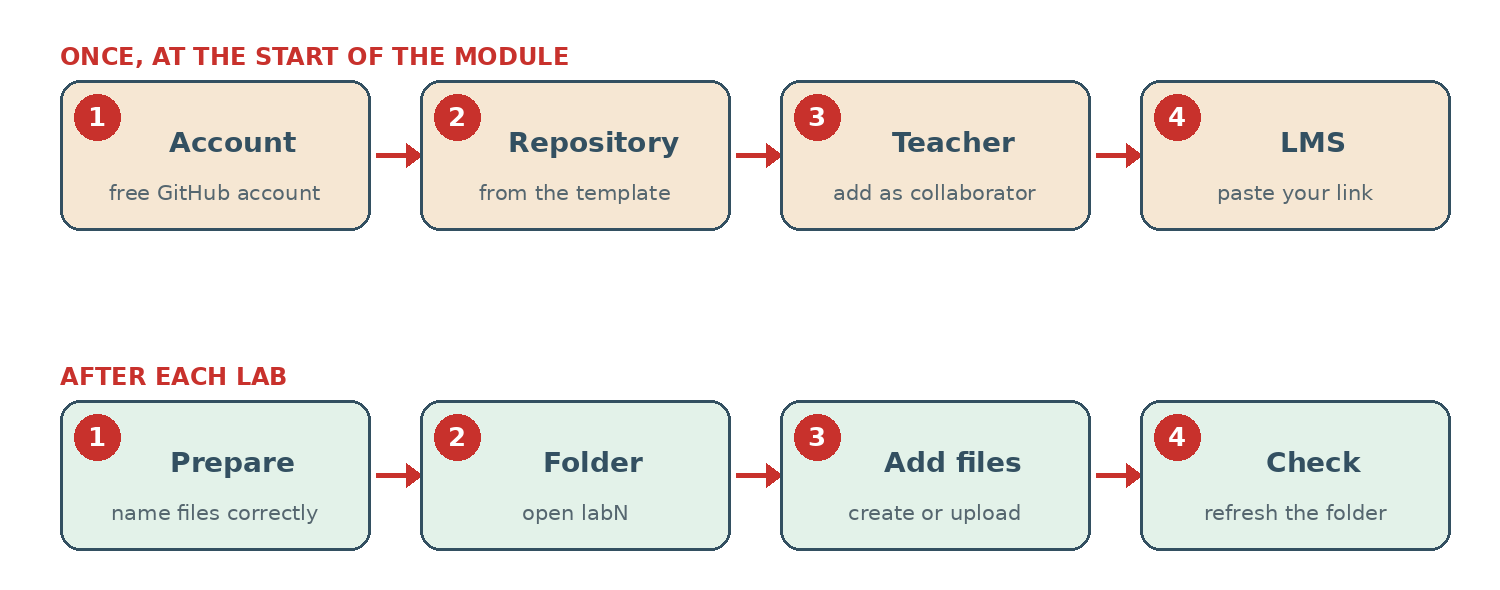
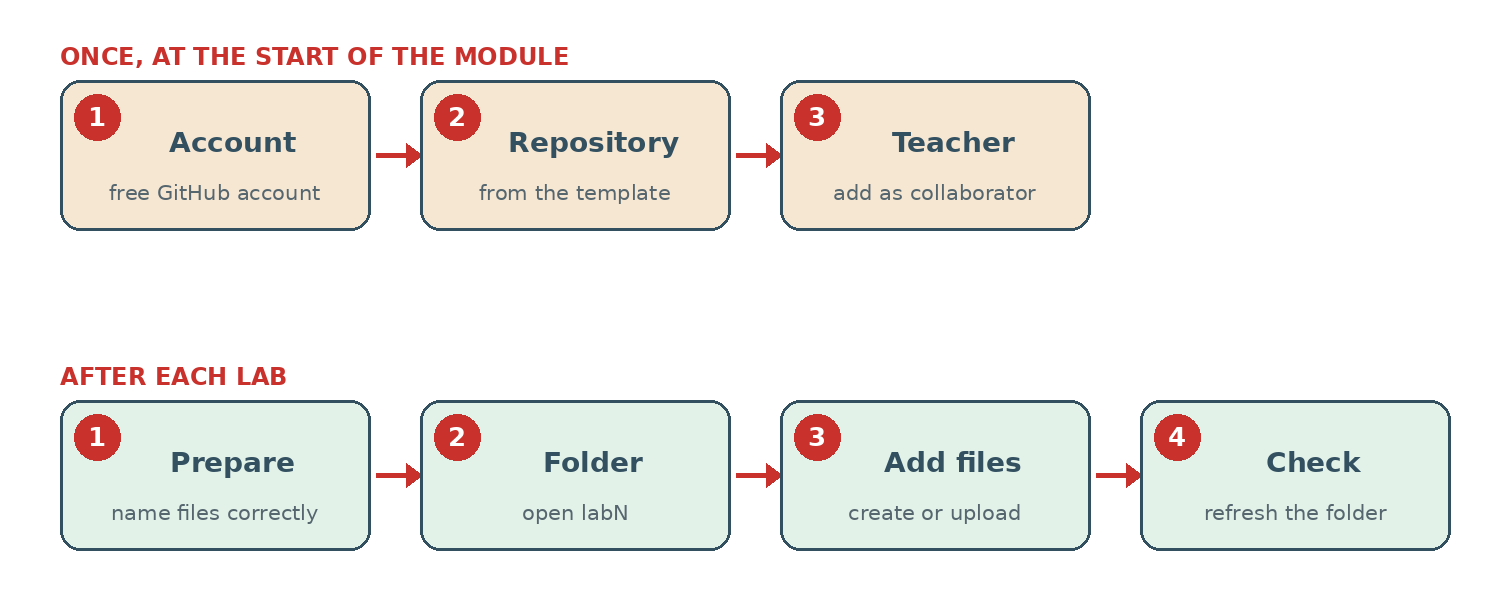
Hand-in guide: students write their name in the repository description, no LMS step
Claude-Session: https://claude.ai/code/session_01QmXQCWgMqLWgpCo8kcuSW4

Changed region(s): [[0.736, 0.122, 0.9813, 0.3966]]

diff --git a/handin.html b/handin.html
@@ -4,7 +4,7 @@
 <meta charset="utf-8">
 <meta name="viewport" content="width=device-width, initial-scale=1">
 <title>How to Hand In Your Work · Jenkins Labs</title>
-<link rel="stylesheet" href="assets/style.css?v=12">
+<link rel="stylesheet" href="assets/style.css?v=13">
 </head>
 <body>
 <header class="top">
@@ -16,9 +16,9 @@
   <main>
     <div class="crumb">Module home</div>
     <h1>How to Hand In Your Work</h1>
-    <div class="prose"><p>You hand in your lab work in <b>one personal GitHub repository</b> for the whole module, with <b>one folder per lab</b> (<code>lab2</code>, <code>lab3</code>, …). Everything happens in your web browser: you do not need to install Git.</p><p>Part A is done <b>once</b>, at the start of the module (about 10 minutes). Part B is done <b>after each lab</b> (about 3 minutes).</p></div>
+    <div class="prose"><p>You hand in your lab work in <b>one personal GitHub repository</b> for the whole module, with <b>one folder per lab</b> (<code>lab2</code>, <code>lab3</code>, …). Everything happens in your web browser: you do not need to install Git.</p><p>Part A is done <b>once</b>, at the start of the module (about 5 minutes). Part B is done <b>after each lab</b> (about 3 minutes).</p></div>
 <figure><a href="images/handin-path.png" target="_blank" rel="noopener"><img src="images/handin-path.png" alt="Part A once at the start of the module, part B after each lab" loading="lazy"></a><figcaption>Part A once at the start of the module, part B after each lab</figcaption></figure>
-<div class="prose"><h3>Part A, step 1: Create a GitHub account</h3><p>Already have a GitHub account? Go to step 2.</p><ol><li>Go to <a href="https://github.com/signup" target="_blank" rel="noopener">github.com/signup</a>.</li><li>Enter your email, a password and a <b>username</b>. Choose a username your teacher can recognise, for example <code>firstname-lastname</code>.</li><li>Confirm your email with the code GitHub sends you.</li></ol><h3>Part A, step 2: Create your repository from the template</h3><ol><li>Sign in to GitHub, then open <a href="https://github.com/new?template_name=jenkins-labs-template&amp;template_owner=nouhakhyari-sys" target="_blank" rel="noopener"><b>this link</b></a>.</li><li>Check the top of the form: it shows <b>Repository template: nouhakhyari-sys/jenkins-labs-template</b>. If it does not, refresh the page.</li><li><b>Owner:</b> your username. <b>Repository name:</b> <code>jenkins-labs</code></li><li><b>Visibility:</b> choose <b>Private</b>, so other students cannot copy your work.</li><li>Do not change the other options. Click <b>Create repository</b>.</li></ol><p>After a few seconds you see your repository with a <code>README.md</code> and the folders <code>lab2</code>, <code>lab3</code> and <code>lab4</code>.</p><h3>Part A, step 3: Give your teacher access</h3><p>Your repository is private: your teacher must be added as a collaborator to see it.</p><ol><li>In your repository, click <b>Settings</b> (top menu, gear icon).</li><li>In the left menu, click <b>Collaborators</b>. GitHub may ask for your password or a code.</li><li>Click <b>Add people</b>, type <code>nouhakhyari-sys</code>, select it, then click <b>Add … to this repository</b>.</li></ol><p>The invitation shows as <b>Pending</b> until your teacher accepts it. That is normal.</p><h3>Part A, step 4: Send your link in the LMS</h3><ol><li>Copy the address of your repository from the browser bar, for example <code>https://github.com/firstname-lastname/jenkins-labs</code>.</li><li>In the LMS, open the assignment <b>📥 My Jenkins Labs repository</b>, paste the link and submit.</li></ol></div>
+<div class="prose"><h3>Part A, step 1: Create a GitHub account</h3><p>Already have a GitHub account? Go to step 2.</p><ol><li>Go to <a href="https://github.com/signup" target="_blank" rel="noopener">github.com/signup</a>.</li><li>Enter your email, a password and a <b>username</b>. Choose a username your teacher can recognise, for example <code>firstname-lastname</code>.</li><li>Confirm your email with the code GitHub sends you.</li></ol><h3>Part A, step 2: Create your repository from the template</h3><ol><li>Sign in to GitHub, then open <a href="https://github.com/new?template_name=jenkins-labs-template&amp;template_owner=nouhakhyari-sys" target="_blank" rel="noopener"><b>this link</b></a>.</li><li>Check the top of the form: it shows <b>Repository template: nouhakhyari-sys/jenkins-labs-template</b>. If it does not, refresh the page.</li><li><b>Owner:</b> your username. <b>Repository name:</b> <code>jenkins-labs</code></li><li><b>Description:</b> your <b>full name and group</b>, for example <code>Ahmed Ben Ali – Master 2</code>. This is how your teacher knows the repository is yours.</li><li><b>Visibility:</b> choose <b>Private</b>, so other students cannot copy your work.</li><li>Do not change the other options. Click <b>Create repository</b>.</li></ol><p>After a few seconds you see your repository with a <code>README.md</code> and the folders <code>lab2</code>, <code>lab3</code> and <code>lab4</code>.</p><h3>Part A, step 3: Give your teacher access</h3><p>Your repository is private: your teacher must be added as a collaborator to see it.</p><ol><li>In your repository, click <b>Settings</b> (top menu, gear icon).</li><li>In the left menu, click <b>Collaborators</b>. GitHub may ask for your password or a code.</li><li>Click <b>Add people</b>, type <code>nouhakhyari-sys</code>, select it, then click <b>Add … to this repository</b>.</li></ol><p>The invitation shows as <b>Pending</b> until your teacher accepts it. That is normal.</p></div>
 <aside class="note"><b>Part A is done.</b> You never need to do it again. For every lab, you only do Part B in the same repository.</aside>
 <div class="prose"><h3>Part B, step 1: Prepare your files</h3><p>The last page of each lab lists the files to hand in, with their exact names. For Lab 2:</p></div>
 <div class="code"><div class="code-cap">Files to hand in for Lab 2</div><div class="code-box"><pre><code>lab2/Jenkinsfile
@@ -29,13 +29,14 @@ lab2/console.png</code></pre><button type="button" class="copy" aria-label="Copy
 <details><summary>I gave a file the wrong name</summary><div class="prose"><p>Click the file, then the <b>pencil icon</b> (Edit). Change the name in the box above the content, then <b>Commit changes</b>. For an image, the simplest is to delete it (<b>…</b> menu › <b>Delete file</b>) and upload it again with the right name.</p></div></details>
 <details><summary>My file is outside the lab folder</summary><div class="prose"><p>Open the file, click the pencil icon, and type <code>lab2/</code> at the start of its name: GitHub moves it into the folder. Click <b>Commit changes</b>.</p></div></details>
 <details><summary>The form did not show &quot;Repository template&quot;</summary><div class="prose"><p>You created an empty repository. Delete it (<b>Settings</b>, bottom of the page, <b>Delete this repository</b>) and do Part A step 2 again with the link, while signed in.</p></div></details>
+<details><summary>I forgot to write my name in the Description</summary><div class="prose"><p>On the main page of your repository, click the <b>gear icon</b> next to <b>About</b> (right column). Type your full name and group in <b>Description</b>, then click <b>Save changes</b>.</p></div></details>
 <details><summary>I made my repository Public by mistake</summary><div class="prose"><p>Open <b>Settings</b>, scroll to the bottom (<b>Danger Zone</b>), click <b>Change visibility › Make private</b> and confirm.</p></div></details>
 <details><summary>I cannot find Settings</summary><div class="prose"><p>You are in the template of your teacher, not in your own repository. Check the address: it must start with <code>github.com/your-username/</code>.</p></div></details>
     <div class="pager"><a class="prev" href="index.html">← Module home</a><a class="next" href="lab1.html">Lab 1: Installing Jenkins →</a></div>
   </main>
 </div>
 <footer>CI/CD with Jenkins · Lab guides · Commands and versions checked against the official Jenkins documentation (October 2026).</footer>
-<script src="assets/videos.js?v=12"></script>
-<script src="assets/site.js?v=12"></script>
+<script src="assets/videos.js?v=13"></script>
+<script src="assets/site.js?v=13"></script>
 </body>
 </html>

diff --git a/lab2-0-stage-view-plugin.html b/lab2-0-stage-view-plugin.html
@@ -4,7 +4,7 @@
 <meta charset="utf-8">
 <meta name="viewport" content="width=device-width, initial-scale=1">
 <title>0. Install the Stage View Plugin · Jenkins Labs</title>
-<link rel="stylesheet" href="assets/style.css?v=12">
+<link rel="stylesheet" href="assets/style.css?v=13">
 </head>
 <body>
 <header class="top">
@@ -30,7 +30,7 @@ docker restart jenkins-local</code></pre><p><code>pipeline-stage-view</code> is 
   </main>
 </div>
 <footer>CI/CD with Jenkins · Lab guides · Commands and versions checked against the official Jenkins documentation (October 2026).</footer>
-<script src="assets/videos.js?v=12"></script>
-<script src="assets/site.js?v=12"></script>
+<script src="assets/videos.js?v=13"></script>
+<script src="assets/site.js?v=13"></script>
 </body>
 </html>

diff --git a/2-5-kubernetes.html b/2-5-kubernetes.html
@@ -4,7 +4,7 @@
 <meta charset="utf-8">
 <meta name="viewport" content="width=device-width, initial-scale=1">
 <title>2.5 Kubernetes (Helm) · Jenkins Labs</title>
-<link rel="stylesheet" href="assets/style.css?v=12">
+<link rel="stylesheet" href="assets/style.css?v=13">
 </head>
 <body>
 <header class="top">
@@ -36,7 +36,7 @@ kubectl get services -n yourname</code></pre><button type="button" class="copy" 
   </main>
 </div>
 <footer>CI/CD with Jenkins · Lab guides · Commands and versions checked against the official Jenkins documentation (October 2026).</footer>
-<script src="assets/videos.js?v=12"></script>
-<script src="assets/site.js?v=12"></script>
+<script src="assets/videos.js?v=13"></script>
+<script src="assets/site.js?v=13"></script>
 </body>
 </html>

diff --git a/lab2-6-checklist-and-help.html b/lab2-6-checklist-and-help.html
@@ -4,7 +4,7 @@
 <meta charset="utf-8">
 <meta name="viewport" content="width=device-width, initial-scale=1">
 <title>6. Checklist and Help · Jenkins Labs</title>
-<link rel="stylesheet" href="assets/style.css?v=12">
+<link rel="stylesheet" href="assets/style.css?v=13">
 </head>
 <body>
 <header class="top">
@@ -32,7 +32,7 @@ bat "ver"</code></pre><p><code>uptime</code> does not exist on Windows; <code>ve
   </main>
 </div>
 <footer>CI/CD with Jenkins · Lab guides · Commands and versions checked against the official Jenkins documentation (October 2026).</footer>
-<script src="assets/videos.js?v=12"></script>
-<script src="assets/site.js?v=12"></script>
+<script src="assets/videos.js?v=13"></script>
+<script src="assets/site.js?v=13"></script>
 </body>
 </html>

diff --git a/2-2-linux-packages.html b/2-2-linux-packages.html
@@ -4,7 +4,7 @@
 <meta charset="utf-8">
 <meta name="viewport" content="width=device-width, initial-scale=1">
 <title>2.2 Linux Packages · Jenkins Labs</title>
-<link rel="stylesheet" href="assets/style.css?v=12">
+<link rel="stylesheet" href="assets/style.css?v=13">
 </head>
 <body>
 <header class="top">
@@ -46,7 +46,7 @@ sudo systemctl restart jenkins</code></pre><button type="button" class="copy" ar
   </main>
 </div>
 <footer>CI/CD with Jenkins · Lab guides · Commands and versions checked against the official Jenkins documentation (October 2026).</footer>
-<script src="assets/videos.js?v=12"></script>
-<script src="assets/site.js?v=12"></script>
+<script src="assets/videos.js?v=13"></script>
+<script src="assets/site.js?v=13"></script>
 </body>
 </html>

diff --git a/lab2-4-explore-the-buttons.html b/lab2-4-explore-the-buttons.html
@@ -4,7 +4,7 @@
 <meta charset="utf-8">
 <meta name="viewport" content="width=device-width, initial-scale=1">
 <title>4. Explore the Jenkins Buttons · Jenkins Labs</title>
-<link rel="stylesheet" href="assets/style.css?v=12">
+<link rel="stylesheet" href="assets/style.css?v=13">
 </head>
 <body>
 <header class="top">
@@ -25,7 +25,7 @@
   </main>
 </div>
 <footer>CI/CD with Jenkins · Lab guides · Commands and versions checked against the official Jenkins documentation (October 2026).</footer>
-<script src="assets/videos.js?v=12"></script>
-<script src="assets/site.js?v=12"></script>
+<script src="assets/videos.js?v=13"></script>
+<script src="assets/site.js?v=13"></script>
 </body>
 </html>

diff --git a/lab2.html b/lab2.html
@@ -4,7 +4,7 @@
 <meta charset="utf-8">
 <meta name="viewport" content="width=device-width, initial-scale=1">
 <title>Lab 2 – Your First Pipeline · Jenkins Labs</title>
-<link rel="stylesheet" href="assets/style.css?v=12">
+<link rel="stylesheet" href="assets/style.css?v=13">
 </head>
 <body>
 <header class="top">
@@ -25,7 +25,7 @@
   </main>
 </div>
 <footer>CI/CD with Jenkins · Lab guides · Commands and versions checked against the official Jenkins documentation (October 2026).</footer>
-<script src="assets/videos.js?v=12"></script>
-<script src="assets/site.js?v=12"></script>
+<script src="assets/videos.js?v=13"></script>
+<script src="assets/site.js?v=13"></script>
 </body>
 </html>

diff --git a/lab1.html b/lab1.html
@@ -4,7 +4,7 @@
 <meta charset="utf-8">
 <meta name="viewport" content="width=device-width, initial-scale=1">
 <title>Lab 1 – Installing Jenkins · Jenkins Labs</title>
-<link rel="stylesheet" href="assets/style.css?v=12">
+<link rel="stylesheet" href="assets/style.css?v=13">
 </head>
 <body>
 <header class="top">
@@ -23,7 +23,7 @@
   </main>
 </div>
 <footer>CI/CD with Jenkins · Lab guides · Commands and versions checked against the official Jenkins documentation (October 2026).</footer>
-<script src="assets/videos.js?v=12"></script>
-<script src="assets/site.js?v=12"></script>
+<script src="assets/videos.js?v=13"></script>
+<script src="assets/site.js?v=13"></script>
 </body>
 </html>

diff --git a/5-checklist-and-help.html b/5-checklist-and-help.html
@@ -4,7 +4,7 @@
 <meta charset="utf-8">
 <meta name="viewport" content="width=device-width, initial-scale=1">
 <title>5. Demo, Checklist and Help · Jenkins Labs</title>
-<link rel="stylesheet" href="assets/style.css?v=12">
+<link rel="stylesheet" href="assets/style.css?v=13">
 </head>
 <body>
 <header class="top">
@@ -29,7 +29,7 @@
   </main>
 </div>
 <footer>CI/CD with Jenkins · Lab guides · Commands and versions checked against the official Jenkins documentation (October 2026).</footer>
-<script src="assets/videos.js?v=12"></script>
-<script src="assets/site.js?v=12"></script>
+<script src="assets/videos.js?v=13"></script>
+<script src="assets/site.js?v=13"></script>
 </body>
 </html>

diff --git a/index.html b/index.html
@@ -4,7 +4,7 @@
 <meta charset="utf-8">
 <meta name="viewport" content="width=device-width, initial-scale=1">
 <title>CI/CD with Jenkins – Labs · Jenkins Labs</title>
-<link rel="stylesheet" href="assets/style.css?v=12">
+<link rel="stylesheet" href="assets/style.css?v=13">
 </head>
 <body>
 <header class="top">
@@ -21,7 +21,7 @@
   </main>
 </div>
 <footer>CI/CD with Jenkins · Lab guides · Commands and versions checked against the official Jenkins documentation (October 2026).</footer>
-<script src="assets/videos.js?v=12"></script>
-<script src="assets/site.js?v=12"></script>
+<script src="assets/videos.js?v=13"></script>
+<script src="assets/site.js?v=13"></script>
 </body>
 </html>

diff --git a/lab2-2-understanding-the-code.html b/lab2-2-understanding-the-code.html
@@ -4,7 +4,7 @@
 <meta charset="utf-8">
 <meta name="viewport" content="width=device-width, initial-scale=1">
 <title>2. Understanding the Code · Jenkins Labs</title>
-<link rel="stylesheet" href="assets/style.css?v=12">
+<link rel="stylesheet" href="assets/style.css?v=13">
 </head>
 <body>
 <header class="top">
@@ -24,7 +24,7 @@
   </main>
 </div>
 <footer>CI/CD with Jenkins · Lab guides · Commands and versions checked against the official Jenkins documentation (October 2026).</footer>
-<script src="assets/videos.js?v=12"></script>
-<script src="assets/site.js?v=12"></script>
+<script src="assets/videos.js?v=13"></script>
+<script src="assets/site.js?v=13"></script>
 </body>
 </html>

diff --git a/lab2-3-shell-commands.html b/lab2-3-shell-commands.html
@@ -4,7 +4,7 @@
 <meta charset="utf-8">
 <meta name="viewport" content="width=device-width, initial-scale=1">
 <title>3. Running Shell Commands · Jenkins Labs</title>
-<link rel="stylesheet" href="assets/style.css?v=12">
+<link rel="stylesheet" href="assets/style.css?v=13">
 </head>
 <body>
 <header class="top">
@@ -39,7 +39,7 @@
   </main>
 </div>
 <footer>CI/CD with Jenkins · Lab guides · Commands and versions checked against the official Jenkins documentation (October 2026).</footer>
-<script src="assets/videos.js?v=12"></script>
-<script src="assets/site.js?v=12"></script>
+<script src="assets/videos.js?v=13"></script>
+<script src="assets/site.js?v=13"></script>
 </body>
 </html>
